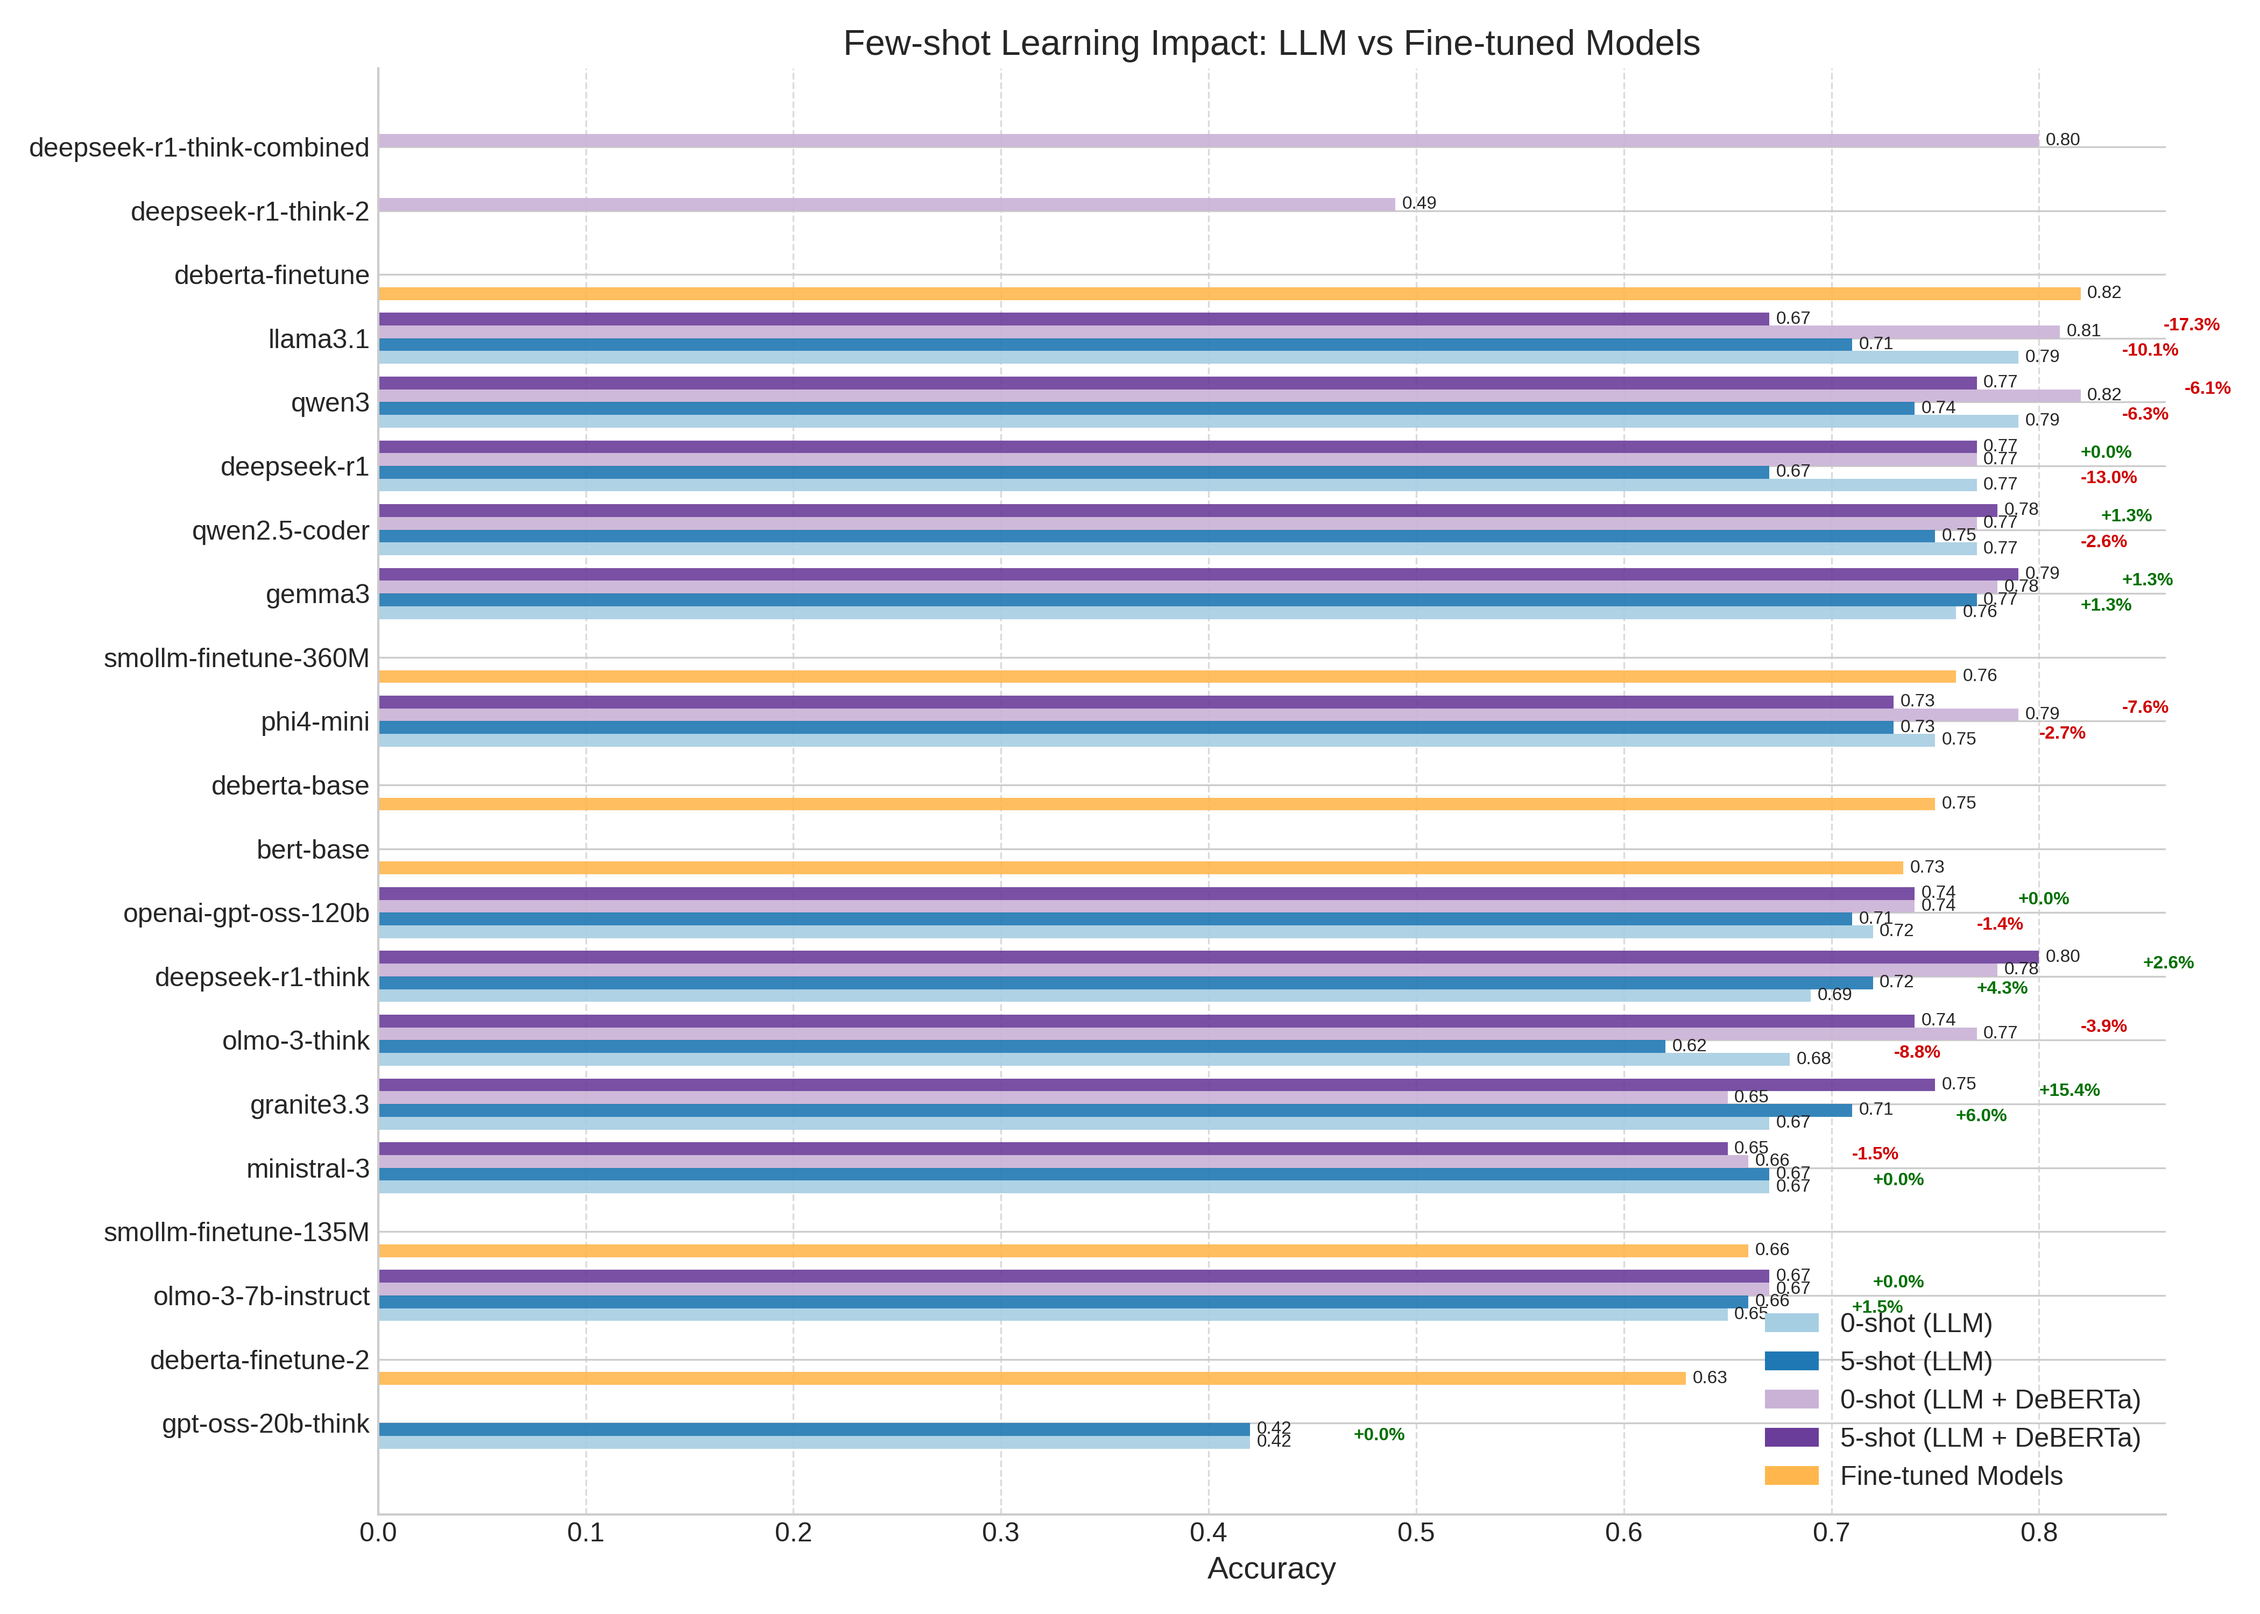
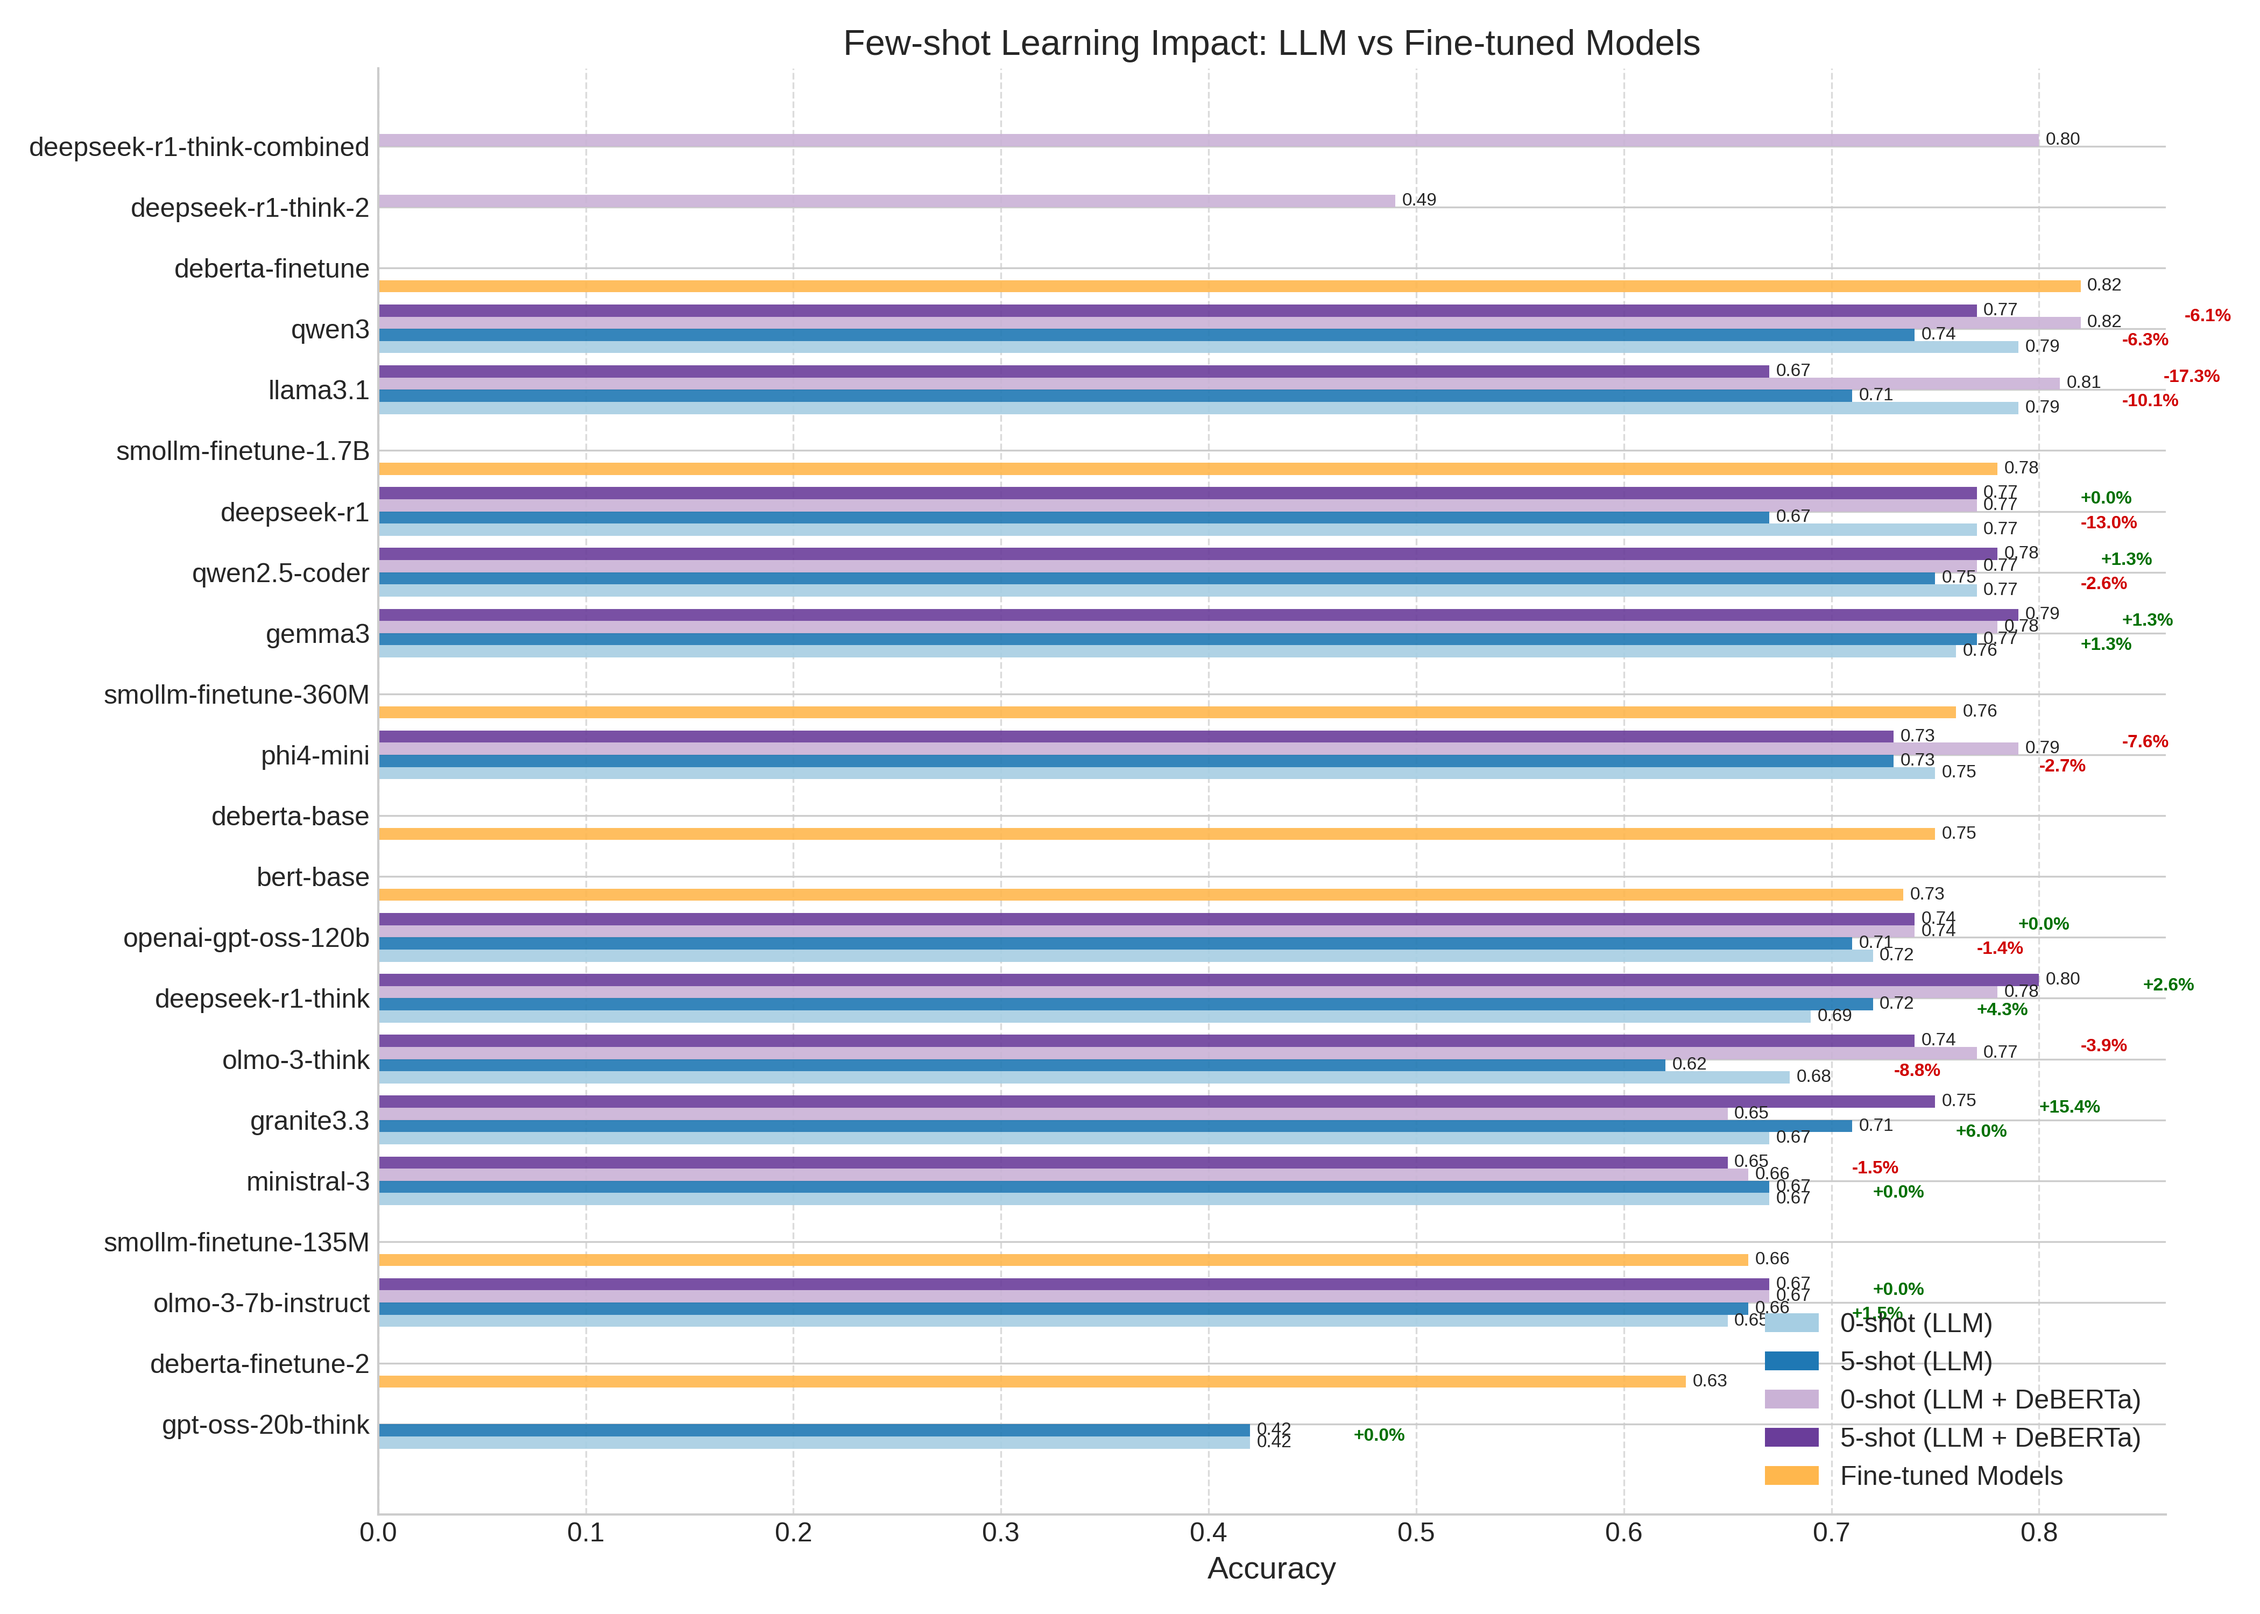
All results of the finetuning of Smollm 1.7B

diff --git a/scripts/calc-0-5-shot-improvement.py b/scripts/calc-0-5-shot-improvement.py
@@ -1,5 +1,3 @@
-#!/usr/bin/env python3
-
 import csv
 import json
 from dataclasses import dataclass
@@ -143,17 +141,16 @@ def main() -> None:
 
 	results = collect_scores(ollama_dir)
 	
-	# Add DeBERTa scores (both v1 and v2) so both versions appear in the summary and plots
-	for dname in ["deberta-finetune", "deberta-finetune-2"]:
-		deberta_dir = repo_root / dname
-		deberta_score_path = deberta_dir / "score.json"
-		deberta_scores = read_score_file(deberta_score_path)
-		if deberta_scores:
-			# Keep original directory name as the model identifier (e.g., 'deberta-finetune' and 'deberta-finetune-2')
-			results[dname] = {"zero": deberta_scores}
+	# Add DeBERTa and BERT base scores
+	for dname in ["deberta-finetune", "deberta-finetune-2", "deberta-base", "bert-base"]:
+		d_dir = repo_root / dname
+		score_path = d_dir / "score.json"
+		scores = read_score_file(score_path)
+		if scores:
+			results[dname] = {"zero": scores}
 
 	# Add SmolLM scores
-	for size in ["135M", "360M"]:
+	for size in ["135M", "360M", "1.7B"]:
 		smollm_dir = repo_root / f"smollm-finetune-{size}"
 		smollm_score_path = smollm_dir / "score.json"
 		smollm_scores = read_score_file(smollm_score_path)

diff --git a/scripts/plot_results.py b/scripts/plot_results.py
@@ -168,12 +168,12 @@ def plot_improvement(df: pd.DataFrame, output_dir: Path):
 
 def plot_metric_consistency_superposed(df: pd.DataFrame, output_dir: Path):
     """Plot Accuracy vs Spearman correlation for ALL models (Standard + DeBERTa Enhanced)."""
-    # Prepare 0-shot data
-    z_df = df[['model', 'zero_accuracy', 'zero_spearman']].dropna().copy()
+    # Prepare 0-shot data - include rows with both accuracy and spearman (but not necessarily five-shot)
+    z_df = df[df['zero_accuracy'].notna() & df['zero_spearman'].notna()][['model', 'zero_accuracy', 'zero_spearman']].copy()
     z_df = z_df.rename(columns={'zero_accuracy': 'accuracy', 'zero_spearman': 'spearman'})
     
-    # Prepare 5-shot data
-    f_df = df[['model', 'five_accuracy', 'five_spearman']].dropna().copy()
+    # Prepare 5-shot data - only include rows that have both five-shot metrics
+    f_df = df[df['five_accuracy'].notna() & df['five_spearman'].notna()][['model', 'five_accuracy', 'five_spearman']].copy()
     f_df = f_df.rename(columns={'five_accuracy': 'accuracy', 'five_spearman': 'spearman'})
     
     if z_df.empty and f_df.empty:

diff --git a/scripts/compare_models_score.py b/scripts/compare_models_score.py
@@ -113,7 +113,8 @@ def score_deberta_models(base_path, temp_ref_file, output_results, scoring_scrip
         'deberta-finetune-3',
         'deberta-refinement',
         'smollm-finetune-135M',
-        'smollm-finetune-360M'
+        'smollm-finetune-360M',
+        'smollm-finetune-1.7B'
     ]
     
     temp_pred_file = os.path.join(base_path, 'temp_predictions.jsonl')
